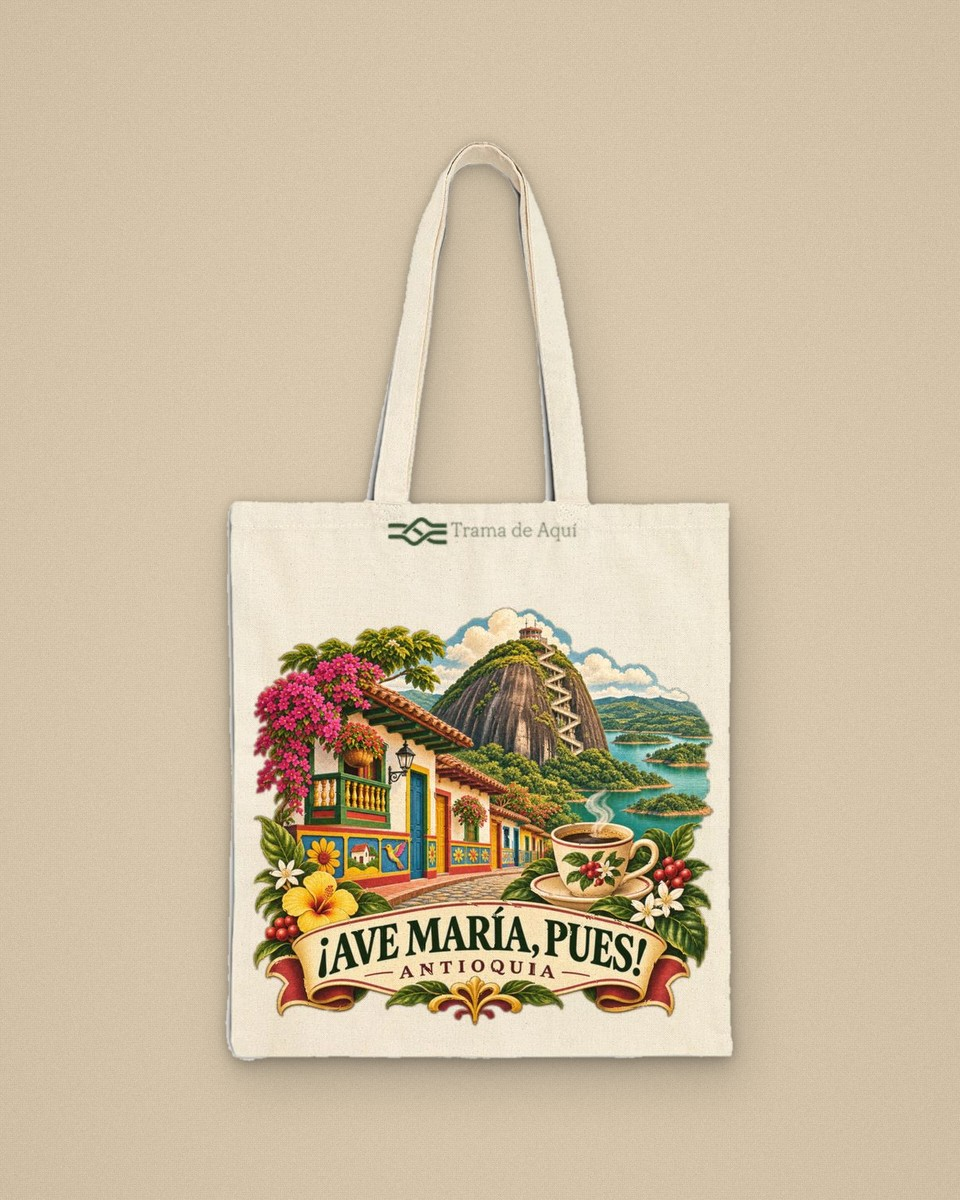
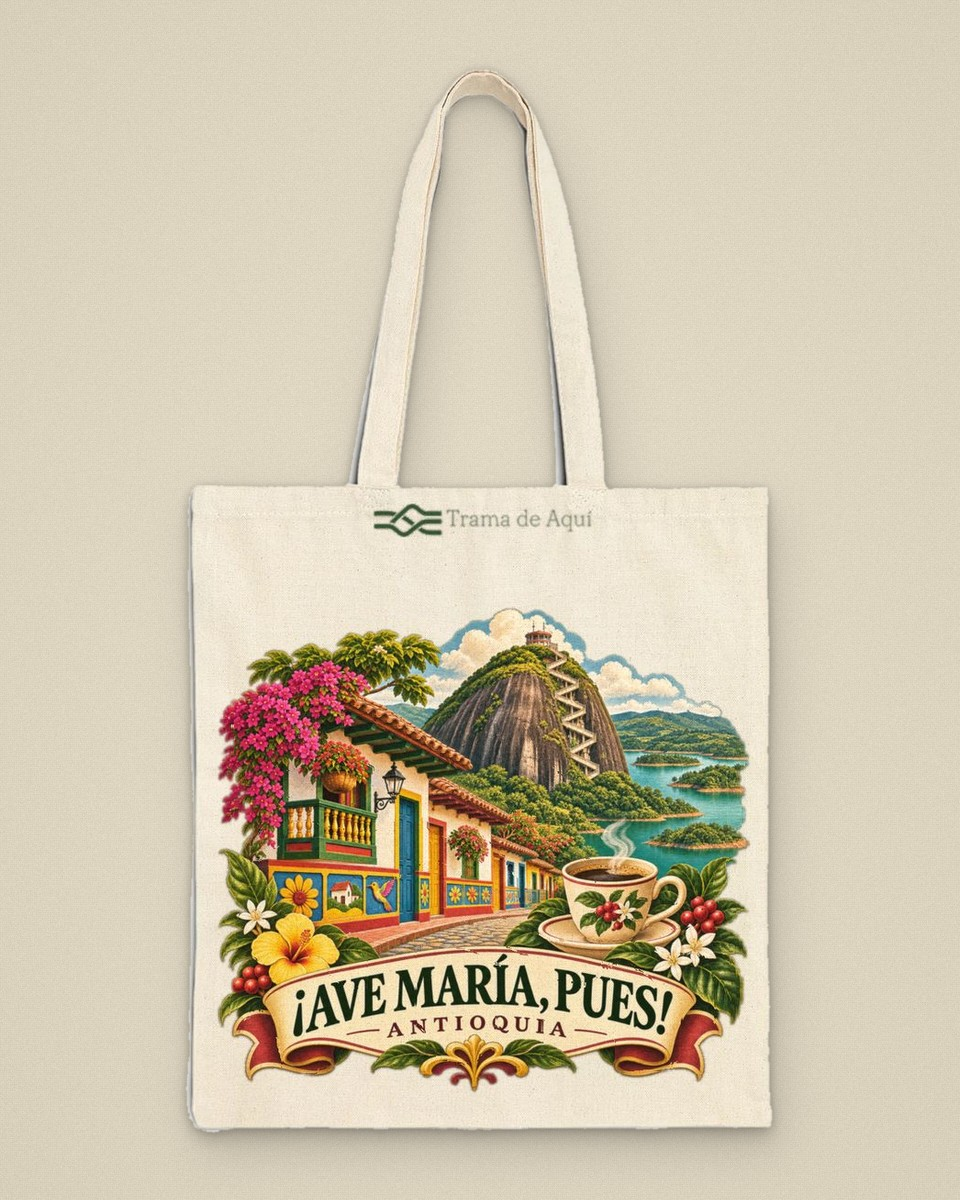
Hero: bolso más grande y sin orillo blanco (tapete de lino más claro)
- El "orillo blanco" era el contraste entre la lona clara del bolso (~232) y
  el tapete oscuro: ahora el tapete es un lino claro cercano al tono de la
  lona (#E4DBC7, texturizado), así el borde no resalta; queda la sombra suave
- Bolso más grande en el tapete (bw 540→624)
- Cache-busting (?v=3) en las fotos del hero para que el navegador tome las nuevas

Claude-Session: https://claude.ai/code/session_019MV2ChF65GATnSuXp8dAgF

Changed region(s): [[0.1875, 0.0617, 0.8125, 0.9558]]

diff --git a/index.html b/index.html
@@ -39,7 +39,7 @@
       </div>
     </div>
     <div class="hero-foto" id="hero-slider">
-      <img class="activo" src="assets/img/hero/cv-colombia-viva.jpg" alt="Bolsos de lona Trama de Aquí con diseños de Colombia">
+      <img class="activo" src="assets/img/hero/cv-colombia-viva.jpg?v=3" alt="Bolsos de lona Trama de Aquí con diseños de Colombia">
     </div>
   </div>
 </section>
@@ -80,7 +80,7 @@
   var cont = document.getElementById('hero-slider');
   if (!cont) return;
   var base = 'assets/img/hero/';
-  var fotos = ['cv-colombia-viva', 'muni-barichara', 'depto-danza-magdalena', 'riq-poporo-quimbaya', 'canon-del-chicamocha', 'ff-jaguar', 'co-sombrero-vueltiao', 'cv-flamencos-de-la-guajira', 'depto-antioquia', 'ff-condor-de-los-andes', 'cv-ballenas-de-nuqui', 'muni-bucaramanga'].map(function (s) { return base + s + '.jpg'; });
+  var fotos = ['cv-colombia-viva', 'muni-barichara', 'depto-danza-magdalena', 'riq-poporo-quimbaya', 'canon-del-chicamocha', 'ff-jaguar', 'co-sombrero-vueltiao', 'cv-flamencos-de-la-guajira', 'depto-antioquia', 'ff-condor-de-los-andes', 'cv-ballenas-de-nuqui', 'muni-bucaramanga'].map(function (s) { return base + s + '.jpg?v=3'; });
   fotos.forEach(function (s) { var im = new Image(); im.src = s; });
   if (window.matchMedia && window.matchMedia('(prefers-reduced-motion: reduce)').matches) return;
   var a = cont.querySelector('img');
